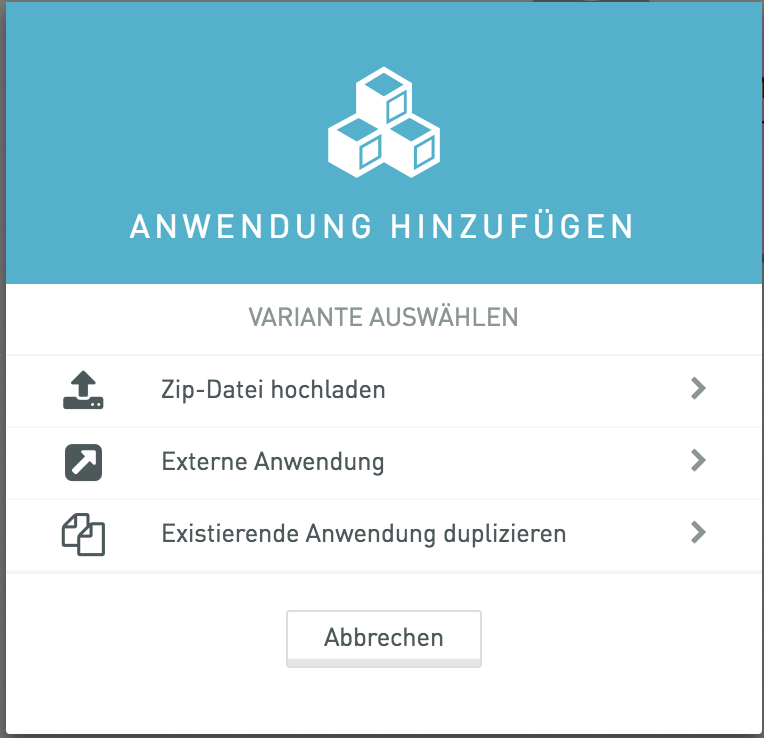
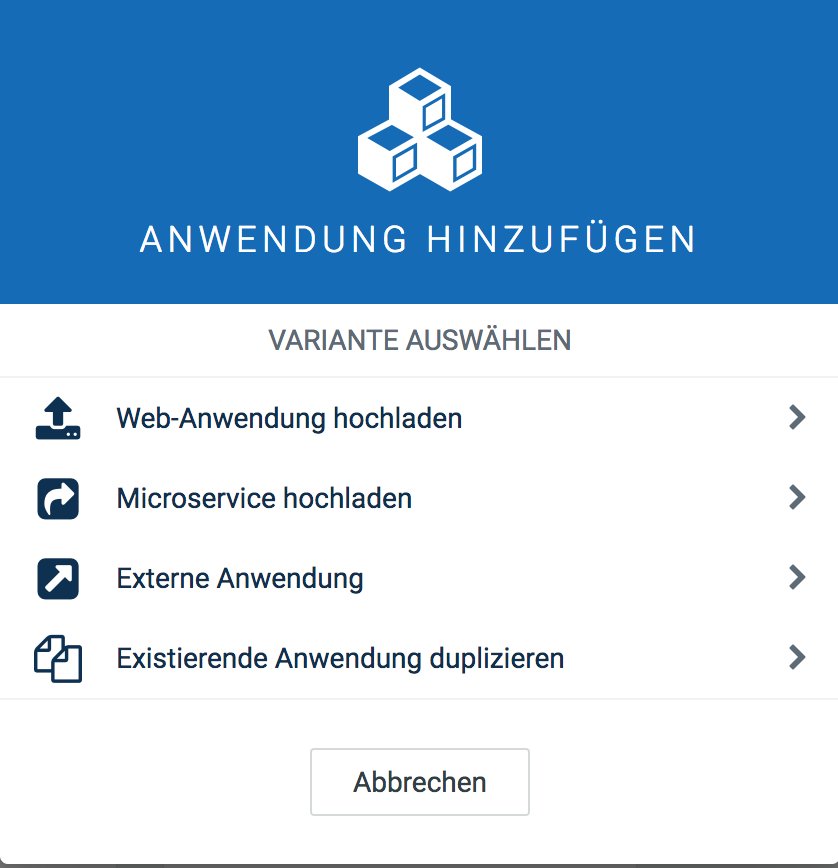
synchronized application management in German admin guide

diff --git a/src/render/guides/benutzerhandbuch/administration/managing-applications.html.md b/src/render/guides/benutzerhandbuch/administration/managing-applications.html.md
@@ -12,11 +12,13 @@ Eigene Anwendungen können sein:
 * webbasierte UI-Anwendungen, die entweder als eigenständige Anwendungen oder als Plugins innerhalb einer Anwendung (z. B. als Widget in der Cockpit-Anwendung) implementiert sind
 * serverseitige Geschäftslogik, die als Microservice implementiert ist 
 
-Über den Application Switcher rechts in der oberen Leiste können Sie auf die Anwendungen in Ihrem Konto zugreifen und einfach zwischen Anwendungen wechseln. 
+Wenn Sie die entsprechende Anwendung abonniert haben ("apama-small"), können Sie außerdem eigene Apama CEP-Regeln als Anwendung hochladen. 
+
+Über den Application Switcher rechts in der oberen Leiste können Sie auf die Anwendungen in Ihrem Konto zugreifen und bequem zwischen Anwendungen wechseln. 
 
 Eigene Anwendungen werden unter **Eigene Anwendungen** im Menü **Anwendungen** verwaltet.
 
-Auf der Seite **Eigene Anwendungen** wird eine Liste aller eigenen Anwendungen in Ihrem Konto angezeigt.
+Auf der Seite **Eigene Anwendungen** wird eine Liste aller eigenen Anwendungen in Ihrem Konto angezeigt. Weitere Informationen zu den Feldern finden Sie unter [Anwendungsattribute](#application-properties).
 
 ![Eigene Anwendungen](/guides/images/benutzerhandbuch/admin-own-applications.png)
 
@@ -26,52 +28,44 @@ Klicken Sie **Anwendung hinzufügen** auf der Seite **Eigene Anwendungen**, um e
 
 Klicken Sie **Plugin hinzufügen**, um ein Plugin hinzuzufügen (siehe [Hinzufügen und Entfernen von Plugins](#add-remove-plugin)).
 
-Klicken Sie auf das Menüsymbol rechts oben in einer Anwendung, um über das Kontextmenü eine Anwendung zu [**Bearbeiten** oder **Löschen**](#editing-and-removing).
+Klicken Sie auf das Menüsymbol rechts oben in einer Anwendung, um über das Kontextmenü eine Anwendung zu [**Bearbeiten** oder zu **Löschen**](#editing-and-removing).
 
 ### Erstellen einer Anwendung
 
 Klicken Sie **Anwendung hinzufügen** auf der Seite **Eigene Anwendungen**, um eine Anwendung hinzuzufügen. Wählen Sie im angezeigten Dialogfenster eine der folgenden Methoden:
 
-* [Web-Anwendung hochladen](#uploading-zip-files), um eine entsprechende ZIP-Datei bereitszustellen
-* [Microservice hochladen](#uploading-cep-rules) (wird nur angezeigt, wenn Sie bestimmte Anwendungen abonniert haben, siehe unten).
+* [Web-Anwendung hochladen](#uploading-zip-files), um eine Web-Anwendung mittels einer ZIP-Datei bereitzustellen
+* [Microservice hochladen](#uploading-microservices), um einen Microservice mittels einer ZIP-Datei bereitzustellen
 * [Externe Anwendung](#external-application), um auf eine Anwendung zu verweisen, die woanders betrieben wird 
-* [Existierende Anwendung duplizieren](#clone-application)
-* 
+* [Existierende Anwendung duplizieren](#clone-application), um eine bestehende Anwendung zu duplizieren
+
 <img src="/guides/images/benutzerhandbuch/admin-application-add.png" alt="Hinzufügen von Anwendungen" style="max-width: 50%">
+
+Wenn Sie die entsprechende Anwendung abonniert haben ("apama-small"), sehen Sie außerdem die Option **Eigene Apama-Regel hochladen**, um [eigene Apama CEP-Regeln](uploading-cep-rules) als Anwendung hochzuladen. 
 
 #### <a name="uploading-zip-files"></a>Hochladen von Web-Anwendungen 
 
 Um eine Web-Anwendung hochzuladen, führen Sie folgende Schritte aus:
 
-In case of microservices, the package must contain the manifest file and docker image of the microservice. Refer to [Microservice package reference](/guides/reference/microservice-package) in order to prepare and deploy the microservice package.
-
 1. Klicken Sie **Anwendung hinzufügen** auf der Seite **Eigene Anwendungen**.
 2. Wählen Sie im folgenden Dialog **Web-Anwendung hochladen**.
 3. Ziehen Sie eine entsprechende ZIP-Datei in das dafür vorgesehene Feld oder navigieren Sie auf Ihrem Computer zu der Datei.
 
-<img src="/guides/images/benutzerhandbuch/admin-upload-zip-file.png" alt="Web-Anwendung hochladen" style="max-width: 50%">
+	<img src="/guides/images/benutzerhandbuch/admin-upload-zip-file.png" alt="Web-Anwendung hochladen" style="max-width: 50%">
 
 Nachdem die Datei auf die Plattform hochgeladen wurde, wird die Anwendung erstellt. 
 
-#### <a name="uploading-cep-rules"></a>Uploading custom CEP rules
+#### <a name="uploading-cep-rules"></a>Hochladen von Microservices
 
-> **Info:** To be able to upload custom CEP rules as applications to Cumulocity you need to be subscribed to the application "apama-small". Optionally, if you want to use the Smart Rules functionality, you need to be subscribed to the "SmartRule" application.
+Um einen Microservice hochzuladen, führen Sie folgende Schritte aus:
 
-In order to upload custom CEP rules, follow these steps:
+1. Klicken Sie **Anwendung hinzufügen** auf der Seite **Eigene Anwendungen**.
+2. Wählen Sie im folgenden Dialog **Microservice hochladen**.
+3. Ziehen Sie eine entsprechende ZIP-Datei in das dafür vorgesehene Feld oder navigieren Sie auf Ihrem Computer zu der Datei.
 
-1. Click **Add application** in the **Own applications** page.
-2. In the upcoming dialog, select **Upload custom CEP rule**. <br>
-	<img src="/guides/images/users-guide/Administration/Admin_ApplicationsAddCEPRules.png" alt="Upload CEP rules" style="max-width: 50%">
+	<img src="/guides/images/benutzerhandbuch/admin-upload-zip-file.png" alt="Web-Anwendung hochladen" style="max-width: 50%">
 
-3. The file to be uploaded must be a single mon file, containing a set of event definitions and monitors. Drop the mon file or browse for it on your computer.
-
-After successfully uploading the file to the platform an application of type "Apama CEP rule" is being created.
-
-<img src="/guides/images/users-guide/Administration/Admin_ApplicationCEPRule.png" alt="Uploading zip file" style="max-width: 100%">
-
-For details on the fields, see also [Application properties](#application-properties) below.
-
->**Info:** You cannot add a plugin to an application of type "Apama CEP rule". 
+Nachdem die Datei auf die Plattform hochgeladen wurde, wird die Anwendung erstellt. 
 
 #### <a name="external-application"></a>Verweisen auf eine externe Anwendung
 
@@ -79,6 +73,9 @@ Um eine Anwendung hinzuzufügen, die auf eine externe Anwendung verweist, führe
 
 1. Klicken Sie **Anwendung hinzufügen** auf der Seite **Eigene Anwendungen**.
 2. Wählen Sie im folgenden Dialog **Externe Anwendung**.
+<br><br>
+<img src="/guides/images/benutzerhandbuch/admin-own-applications-external.png" alt="Externe Anwendung" style="max-width: 50%">
+<br><br>
 3. Geben Sie im nächsten Fenster einen Namen für die Anwendung ein. Der Name wird als Titel oben links auf der Anwendungsseite angezeigt. Er wird außerdem im Application Switcher verwendet.  
 5. Geben Sie einen Anwendungsschlüssel ein, um diese Anwendung zu identifizieren.
 6. Geben Sie die externe URL ein, unter welcher auf die Anwendung zugegriffen werden kann. 
@@ -99,56 +96,50 @@ Führen Sie die folgende Schritte aus, um eine Anwendung zu duplizieren:
 1.  Klicken Sie **Anwendung hinzufügen** auf der Seite **Eigene Anwendungen**.
 2.  Wählen Sie im folgenden Dialog **Existierende Anwendung duplizieren**.
 3.  Wählen Sie die gewünschte Anwendung aus der Auswahlliste. 
+<br><br>
+<img src="/guides/images/benutzerhandbuch/admin-own-applications-duplicate.png" alt="Anwendung duplizieren" style="max-width: 50%">
+<br><br>
 4.  Geben Sie im nächsten Fenster den Namen der Anwendung ein. Standardmäßig wird der Name der Originalanwendung, erweitert durch eine Zahl, vorgeschlagen. Der Name wird als Titel oben links auf der Anwendungsseite angezeigt. Er wird außerdem im Application Switcher verwendet.
 5.  Geben Sie einen Anwendungsschlüssel ein, um die Anwendung zu identifizieren. Standardmäßig wird der Anwendungsschlüssel der Originalanwendung, erweitert durch eine Zahl, vorgeschlagen. 
 6.  Geben Sie einen Pfad für die Anwendung ein, Dieser Pfad ist Teil der URL, um die Anwendung aufzurufen. Standardmäßig wird der Pfad der Originalanwendung, erweitert durch eine Zahl, vorgeschlagen. Wenn Sie hier den Pfad der Originalanwendung verwenden, wird Ihre eigene Anwendung die Originalanwendung überschreiben.
 7.  Klicken Sie abschließend **Duplizieren**, um die Anwendung zu erstellen.
 
-Weitere Informationen zu den Feldern finden Sie auch unter [Anwendungsattribute](#application-properties). 
+Weitere Informationen zu den Feldern finden Sie auch unter [Anwendungsattribute](#application-properties).  
 
+#### <a name="uploading-cep-rules"></a>Hochladen eigener Apama CEP-Regeln
 
-#### <a name="uploading-cep-rules"></a>Uploading custom CEP rules
+> **Info:** Um eigene Apama CEP-Regeln als Anwendung hochladen zu können, müssen Sie die Anwendung "apama-small" abonniert haben. 
 
-> **Info:** To be able to upload custom CEP rules as applications to Cumulocity you need to be subscribed to the application "apama-small". Optionally, if you want to use the Smart Rules functionality, you need to be subscribed to the "SmartRule" application.
+ Um eine eigene Apama CEP-Regel hochzuladen, führen Sie folgende Schritte aus:
 
-In order to upload custom CEP rules, follow these steps:
+1. Klicken Sie **Anwendung hinzufügen** auf der Seite **Eigene Anwendungen**.
+2. Wählen Sie im folgenden Dialog **Eigene Apama-Regel hochladen**.
+3. Ziehen Sie eine entsprechende Datei in das dafür vorgesehene Feld oder navigieren Sie auf Ihrem Computer zu der Datei. Dabei muss es sich um eine einzelne mon-Datei mit einer Reihe von Ereignisdefinitionen und Monitoren handeln. 
 
-1. Click **Add application** in the **Own applications** page.
-2. In the upcoming dialog, select **Upload custom CEP rule**. <br>
-	<img src="/guides/images/users-guide/Administration/Admin_ApplicationsAddCEPRules.png" alt="Upload CEP rules" style="max-width: 50%">
-
-3. The file to be uploaded must be a single mon file, containing a set of event definitions and monitors. Drop the mon file or browse for it on your computer.
-
-After successfully uploading the file to the platform an application of type "Apama CEP rule" is being created.
+Nachdem die Datei auf die Plattform hochgeladen wurde, wird eine Anwendung des Typs "Apama CEP-Regel" erstellt. 
 
 <img src="/guides/images/users-guide/Administration/Admin_ApplicationCEPRule.png" alt="Uploading zip file" style="max-width: 100%">
 
-For details on the fields, see also [Application properties](#application-properties) below.
-
->**Info:** You cannot add a plugin to an application of type "Apama CEP rule". 
+>**Info:** Sie können zu einer Anwendung des Typs "Apama CEP-Regel" keine Plugins hinzufügen. 
 
 
-### <a name="application-properties"></a>Application properties
+### <a name="application-properties"></a>Anwendungsattribute
 
-Click on an application card to view the application properties.
+Klicken Sie auf eine Anwendungskarte, um die Attribute der Anwendung anzuzeigen.
 
-<img src="/guides/images/users-guide/Administration/Admin_OwnApplicationMicroservice.png" alt="Microservice application" style="max-width: 100%">
+<img src="/guides/images/benutzerhandbuch/admin-own-application-attributes.png" alt="Anwendungsattribute" style="max-width: 100%">
 
-Each application will show the following properties:
+Für jede Anwendung werden die folgenden Attribute angezeigt:
 
-|Field|Description|Hosted (Web app)|Microservice|External|CEP rule
-|:---|:---|:---|:---|:---|:---
-|Name|Application name. Will be shown as title of the application in the top bar and in the application switcher. |Automatically created|Automatically created, based on the zip file name | Specified by the user|Automatically created, based on the mon file name 
-|ID|Unique ID to identify the application|Automatically provided|Automatically provided|Automatically provided|Automatically provided
-|Application key|Used to identify the application and to make the application available for subscription, see the [Concepts Guide](/guides/concepts/applications). |Automatically created|Automatically created based on the zip file name|Specified by the user|Automatically created based on the mon file name 
-|Type|Application type|Hosted application|Microservice|External|Apama CEP rule
-|Path|Part of the URL invoking the application|Automatically created|Automatically created as .../service/&#60;microservice name&#62;|Specified by the user. For example, if you use "hello" as application path, the URL of the application will be "/apps/hello".|Not available
+|Feld|Beschreibung|Web-Anwendung|Microservice|Externe Anwendung|Apama CEP-Regel
+|:----------------|:---|:---|:---|:---|:---
+|Name|Anwendungsname. Wird als Titel oben links auf der Anwendungsseite angezeigt und im Application Switcher verwendet. |Automatisch generiert, basierend auf dem Namen der ZIP-Datei|Automatisch generiert, basierend auf dem Namen der ZIP-Datei|Vom Benutzer vergeben|Automatisch generiert, basierend auf dem Namen der mon-Datei 
+|ID|Eindeutige ID zur Identifikation der Anwendung |Automatisch generiert|Automatisch generiert|Automatisch generiert|Automatisch generiert
+|Anwendungsschlüssel|Wird zur Identifikation der Anwendung verwendet. Wird außerdem verwendet, um die Anwendung als Abonnement zur Verfügung zu stellen, siehe auch [Concepts Guide](/guides/concepts/applications). |Automatisch generiert, basierend auf dem Namen der ZIP-Datei|Automatisch generiert, basierend auf dem Namen der ZIP-Datei|Vom Benutzer vergeben|Automatisch generiert, basierend auf dem Namen der mon-Datei
+|Typ|Anwendungstyp|Gehostete Anwendung|Microservice|Externe Anwendung|Apama CEP-Regel
+|Pfad|Teil der URL, die die Anwendung aufruft|Automatisch generiert|Automatisch generiert als .../service/&#60;microservice name&#62;|Vom Benutzer bereitgestellt. Wenn Sie beispielsweise "hallo" als Anwendungspfad verwenden, lautet die URL der Anwendung "/apps/hallo".|Nicht verfügbar
 
->**Info**: ID, application key, type and path cannot be changed.
-
-
-
-
+>**Info**: ID, Anwendungsschlüssel, Typ und Pfad können nicht geändert werden.
 
 
 ### <a name="editing-and-removing"></a>Bearbeiten und Löschen von Anwendungen
